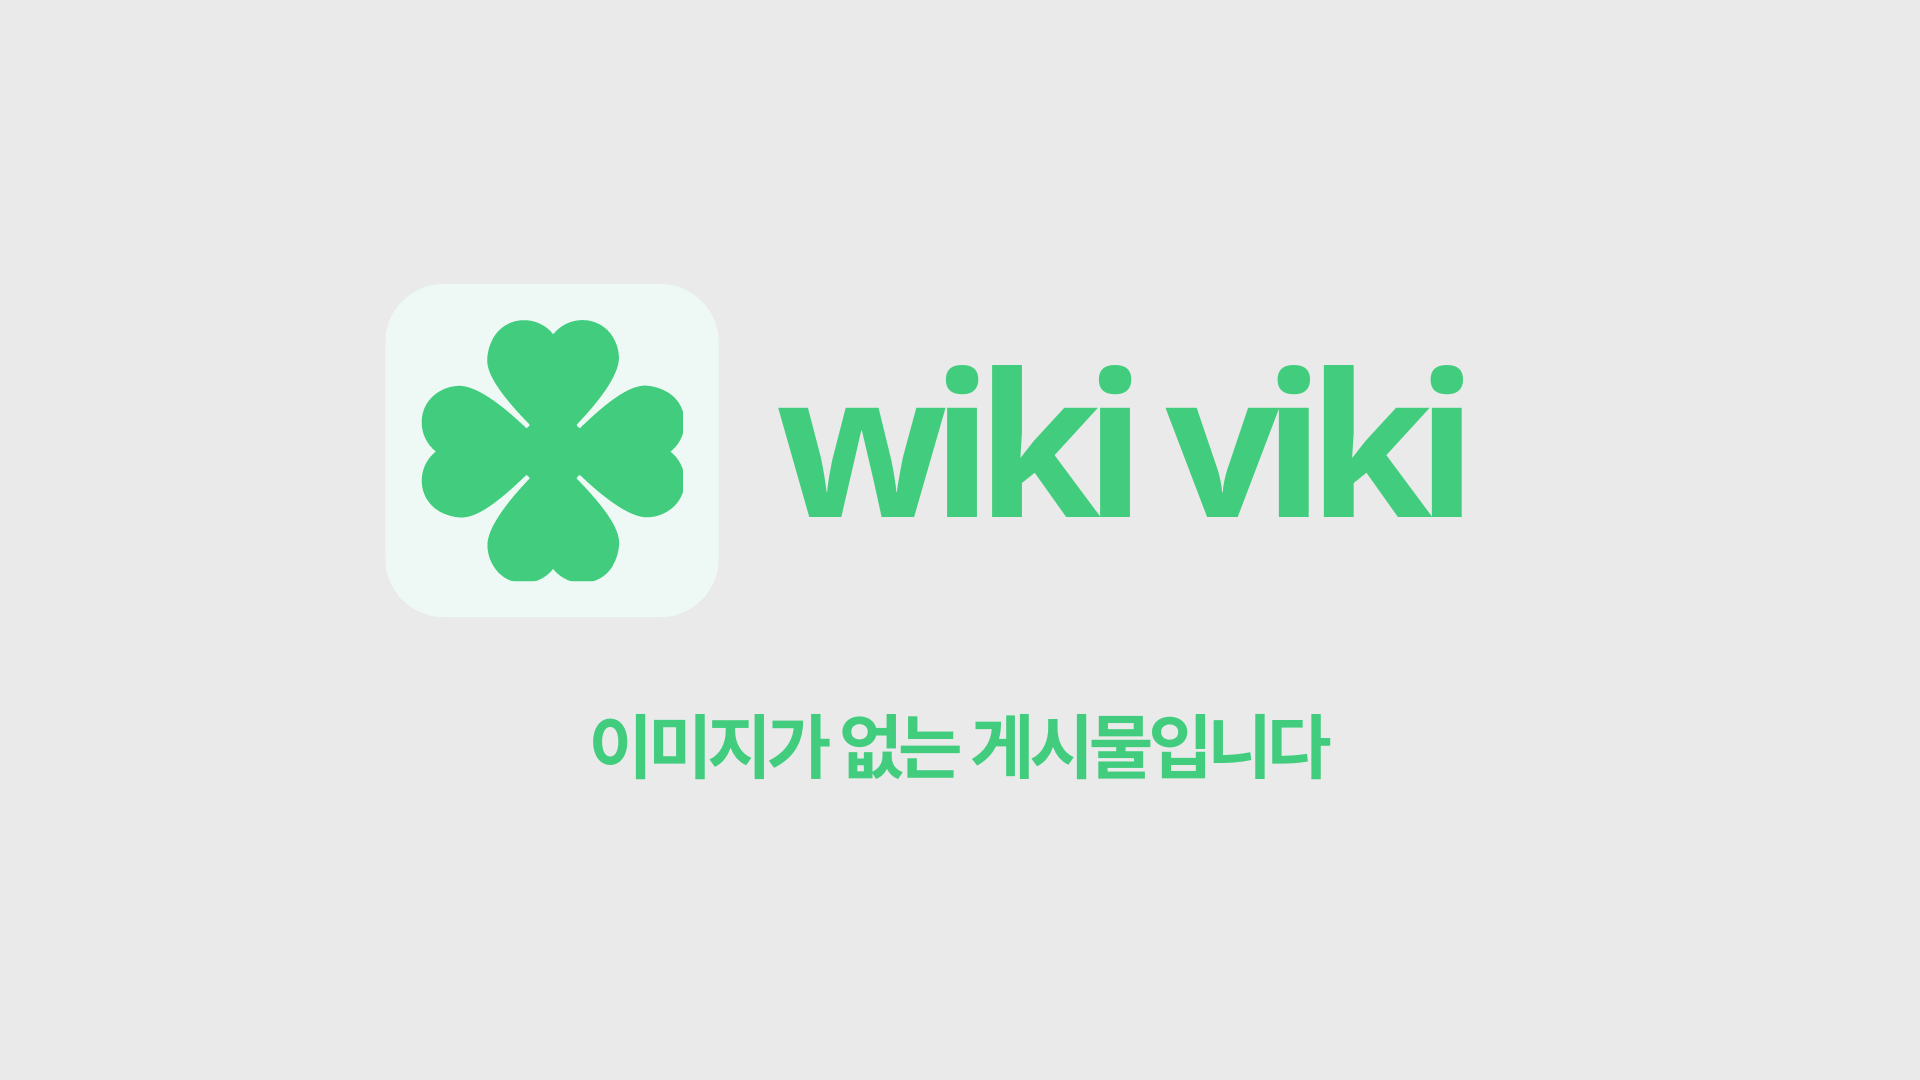
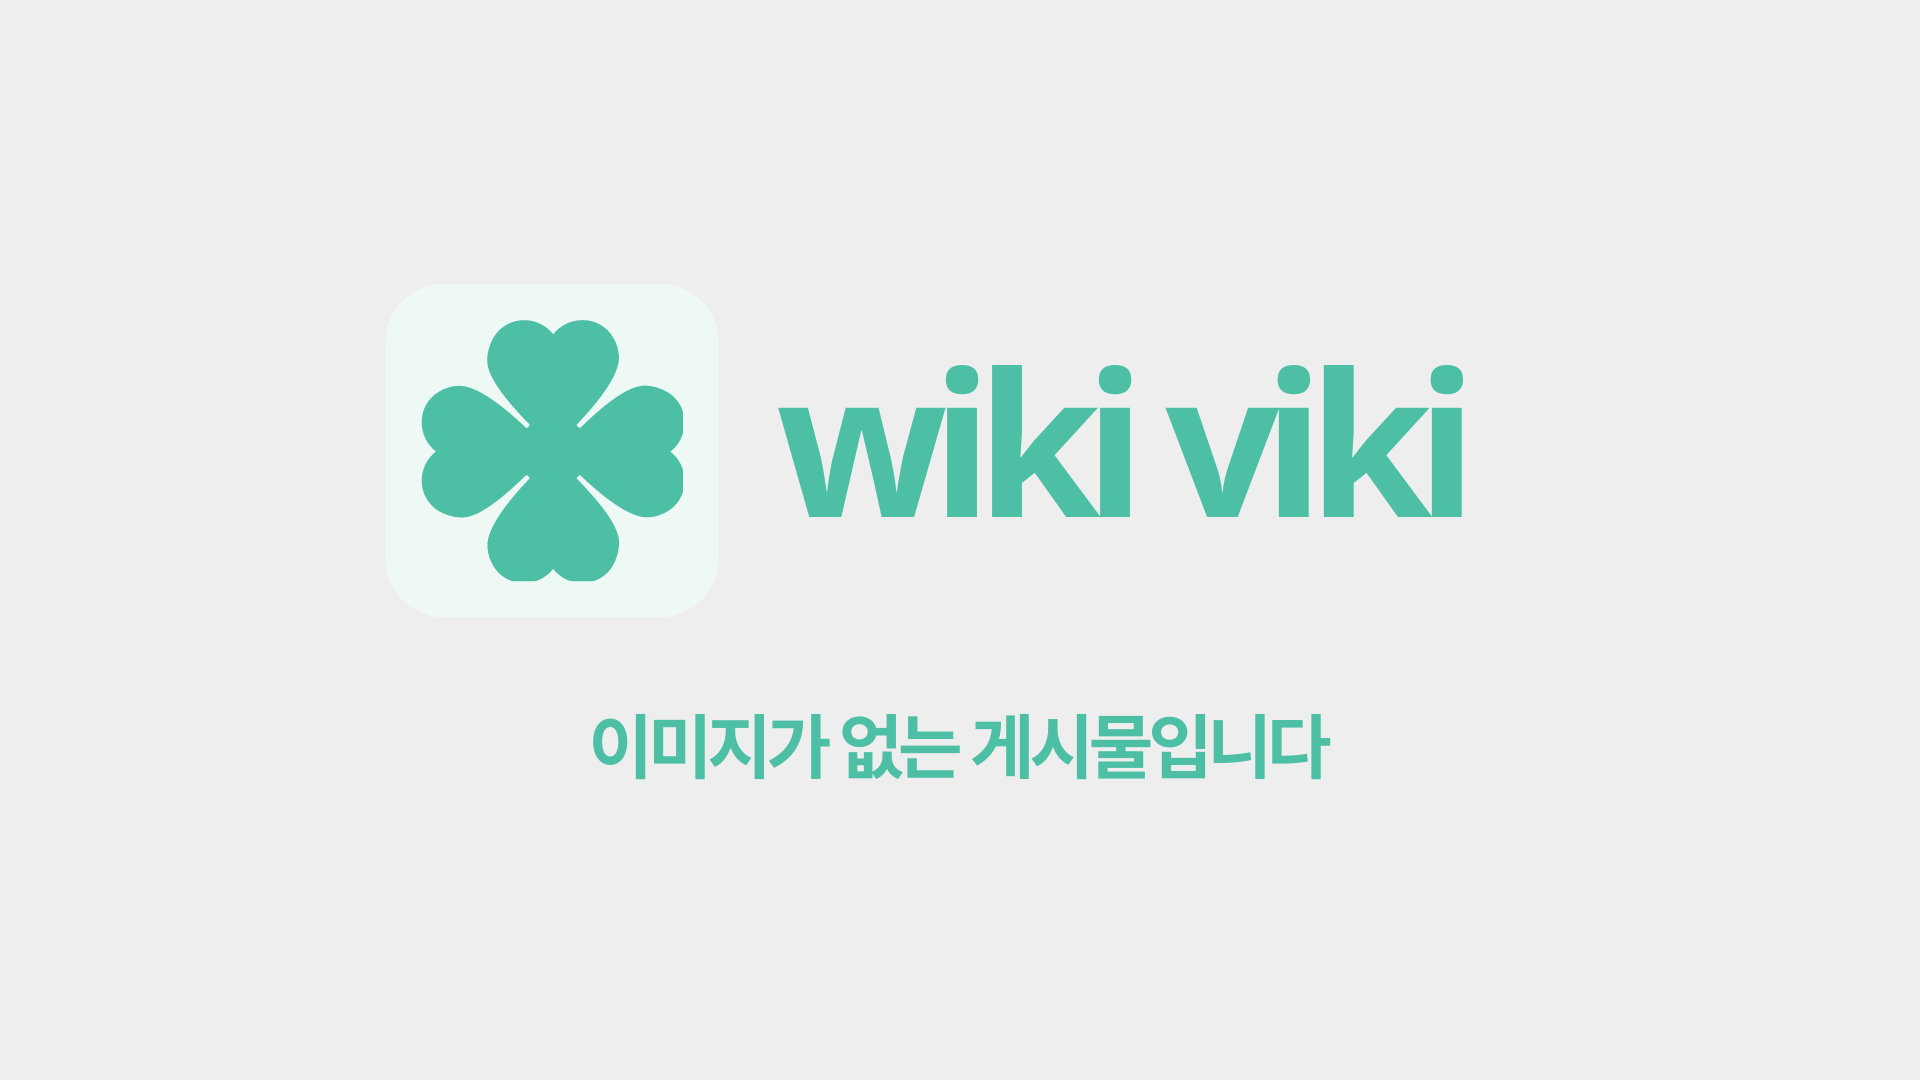
📦 Chore: 이미지 없는 게시물 사진 색상 변경

Changed region(s): [[0.4062, 0.3361, 0.7812, 0.4889], [0.2188, 0.275, 0.375, 0.55], [0.3125, 0.6417, 0.6875, 0.7333]]

diff --git a/src/pages/board/[boardId]/edit.tsx b/src/pages/board/[boardId]/edit.tsx
@@ -63,7 +63,7 @@ const EditBoard = () => {
       content: newContent,
       image: firstImageSrc
         ? firstImageSrc
-        : 'https://sprint-fe-project.s3.ap-northeast-2.amazonaws.com/Wikied/user/133/1720006227876/empty-image.png',
+        : 'https://sprint-fe-project.s3.ap-northeast-2.amazonaws.com/Wikied/user/133/1720177203844/noimage.png',
     };
 
     try {
